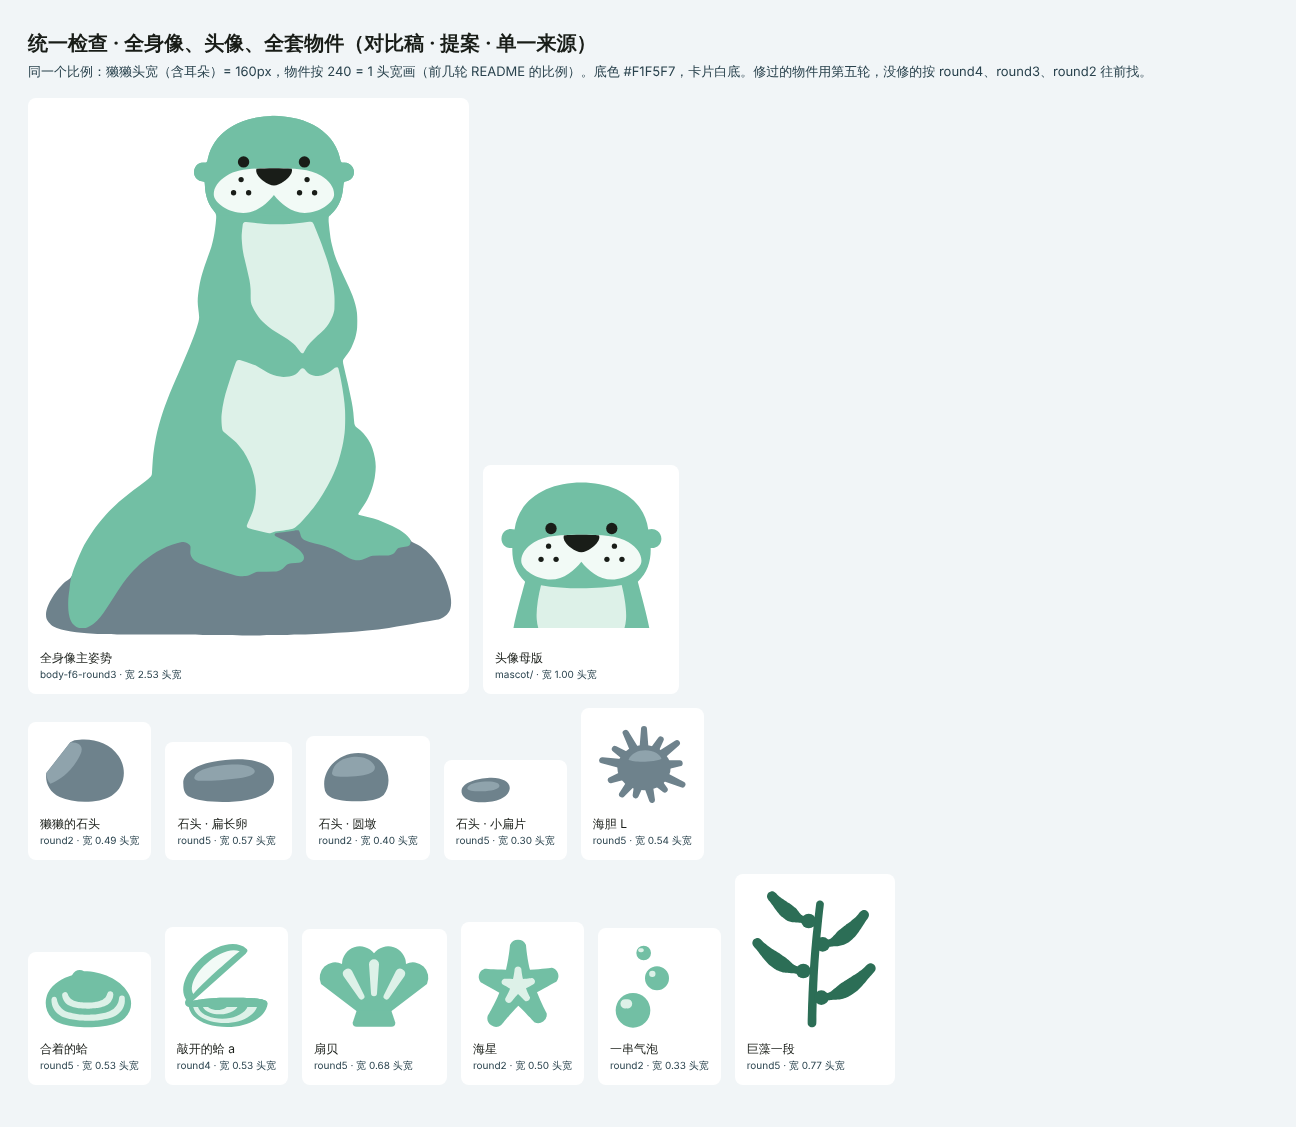
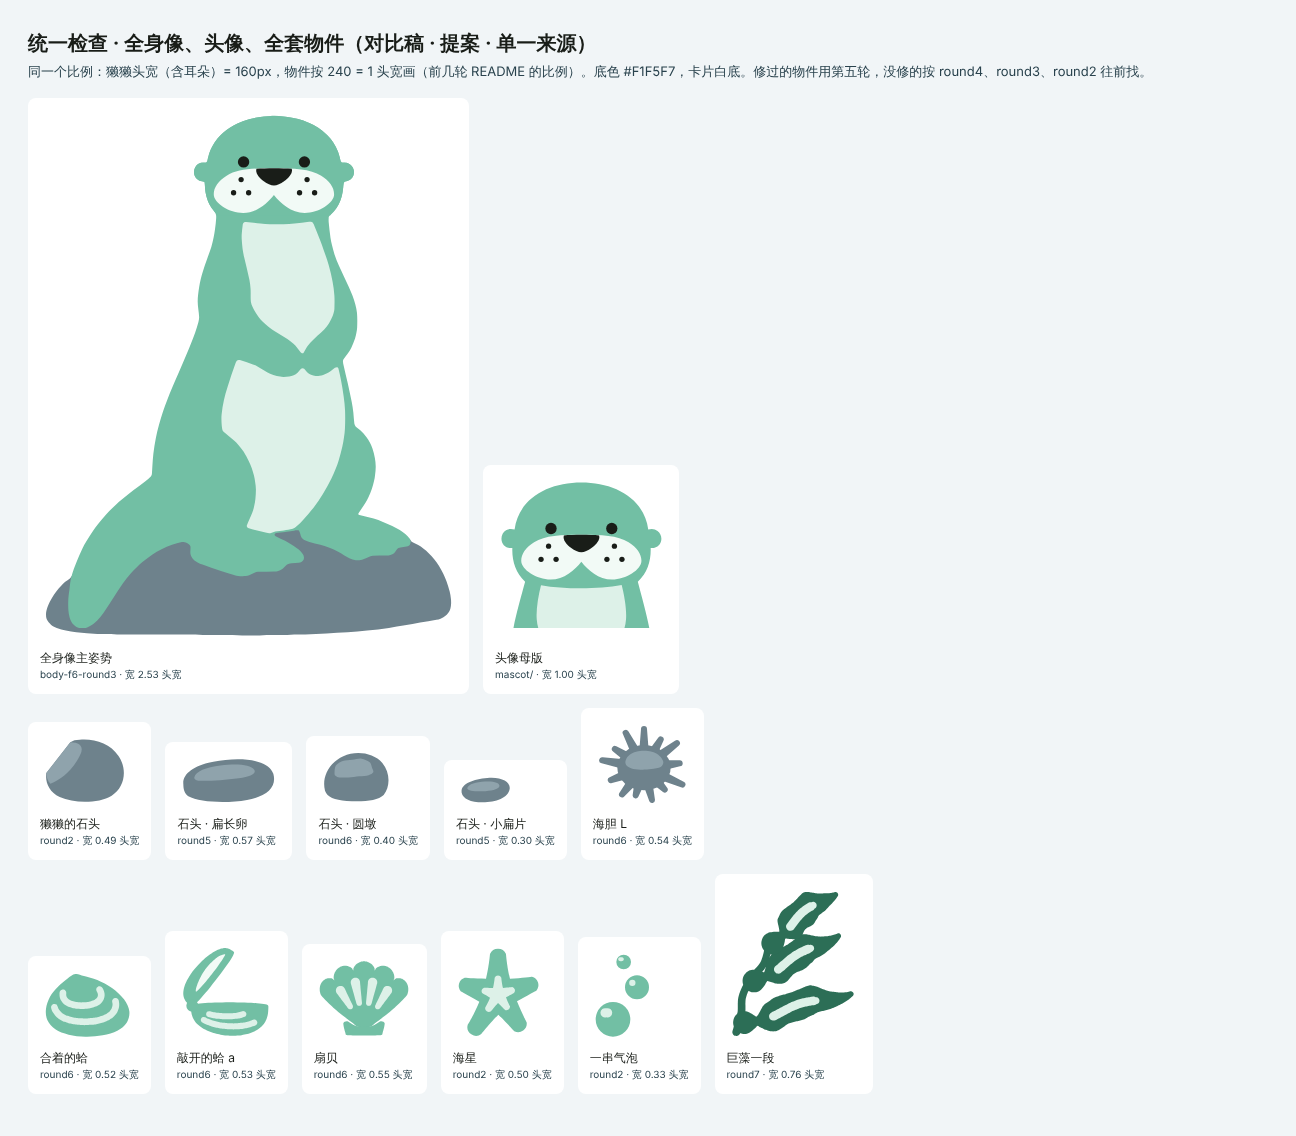
统一检查第二遍过了：坐石全身像和十一样物件搬进 mascot/，BRAND.md 第 113 条
Claude-Session: https://claude.ai/code/session_01Ct2ZK9gFhJo2CP1NsM765z

diff --git a/design/brand-2026-10-13/image-review-2026-11-14/unified-check/README.md b/design/brand-2026-10-13/image-review-2026-11-14/unified-check/README.md
@@ -187,3 +187,16 @@
 3. **圆墩石的顶面离外沿 1.7px**：要不要照小扁片、扁长卵的改法一起往里收 0.3px？这一轮按要求没碰它。
 4. **全身像在 48px 下的五官、肚皮和脸斑离外沿近**：是不是明确写一条「全身像不用在 48px 以下，小尺寸用头像」，这样第 2、3 条只对头像和物件查？
 5. **头像母版的胡须点在 48px 下约 1.6px**：48px 用 `mascot/small/` 的简化版，还是把胡须点放大？
+
+## 第二遍（2026-11-14，Owner 定完每样画法之后）
+
+用的稿：全身像第三轮；物件按第七轮、第六轮、第五轮、第四轮、第三轮、第二轮的顺序往前找，也就是每样都是 Owner 定的那一版（BRAND.md 第 109 到 112 条）。`sheet.png`、`mono.png`、`small-48.png`、`measure.json` 已重出，上面第一遍的数是旧稿的。图上副标题那句「修过的物件用第五轮」是旧字，没改脚本里的文案。
+
+- 颜色：每样认不出的像素都是 0，石板墨没出现，墨只在獭獭的五官上。
+- 次色离外沿（48 像素下）：扁长卵 2.5、圆墩 2.3、小扁片 2.4、合着的蛤 2.4、敲开的蛤 2.3 和 3.2、扇贝 3.9、海胆 2.8、巨藻 2.4、海星 4.0，都过 2。
+- 次色占比：15% 到 27%（敲开的蛤两块次色合计 24%）。
+- 48 像素下窄于 2 像素的面：物件都在 5% 以下。
+- 脸：全身像的墨和雾白与头像母版逐像素重合。
+- 没过、但都是已定的例外：气泡小点离外沿 0.5（第 110 条留着）；獭獭的石头平切面贴外沿（规定画法）；全身像坐的石头没有石面（第 109 条）；全身像缩到 48 像素五官过细（第 110 条：不用在 48 像素以下）；头像胡须点在 48 像素下约 1.6 像素（小尺寸用 `mascot/small/` 的简化版）。
+
+结论：过。已搬进 `mascot/objects/` 和 `mascot/otter-sit.svg`（第 113 条）。

diff --git a/design/brand-2026-10-13/image-review-2026-11-14/house-rules.md b/design/brand-2026-10-13/image-review-2026-11-14/house-rules.md
@@ -45,7 +45,7 @@
 1. 脸和标志（已做）：头像、标志、浏览器图标、App 图标、默认头像。
 2. 全身像主姿势（在画）：坐石四分之三侧，成年比例。Owner 2026-11-14：身材照 F6 草图描，合爪保留（第 109 条）；对比稿在 `body-f6-round3/`，还要手修。
 3. 生态物件（在画）：石头、蛤、扇贝、海胆、巨藻、海星、气泡已过 agent 复核；敲开的蛤用第四轮候选 a（第 109 条），壳要加厚；合着的蛤、扇贝再改一轮，巨藻加浅雾薄荷次色（第 110 条，第六轮）。
-4. **统一检查（还没做）**：把 1 到 3 的定稿放在同一张图上，同一个比例、同一个底色，查颜色是不是只有表里的、次色画法是不是一个密度、石头是不是一种画法、獭獭的脸是不是同一张；另出单色剪影和 48 像素两张。这一步过了，才搬进 `mascot/`、`illustration/`。
+4. **统一检查（2026-11-14 第二遍过了，已搬入，BRAND.md 第 113 条）**：把 1 到 3 的定稿放在同一张图上，同一个比例、同一个底色，查颜色是不是只有表里的、次色画法是不是一个密度、石头是不是一种画法、獭獭的脸是不是同一张；另出单色剪影和 48 像素两张。这一步过了，才搬进 `mascot/`、`illustration/`。
 5. 按新的全身像重画旧图：仰躺的全身浮姿、五个状态图、登录页探头、直立和巨藻姿势。重画前先定哪些留、哪些换。
 6. 场景：雾海和巨藻林，獭獭和物件按相互大小放进去。
 7. 放进真实页面：空态、加载、完成，各挑一处试；拍真实截图。

diff --git a/design/brand-2026-10-13/mascot/objects/README.md b/design/brand-2026-10-13/mascot/objects/README.md
@@ -1,0 +1,23 @@
+# 生态物件（2026-11-14 搬入）
+
+状态：画法 Owner 已定（BRAND.md §7 第 106、109 到 112 条），2026-11-14 过了统一检查后从 `image-review-2026-11-14/` 搬到这里（第 113 条）。还没放进真实页面，也没定每样用在哪；含义只当装饰（第 106 条）。
+
+画框约定：每个 SVG 的画框里 240 = 獭獭头宽（含耳朵），物件按相互大小画在里面，所以放在一起时不用再各自缩放。
+
+| 文件 | 是什么 | 来自 |
+| --- | --- | --- |
+| `stone-otter.svg` | 獭獭的石头，带一刀平切面 | 第二轮 |
+| `stone-long.svg` | 石头 · 扁长卵 | 第五轮 |
+| `stone-round.svg` | 石头 · 圆墩 | 第六轮 |
+| `stone-flat.svg` | 石头 · 小扁片 | 第五轮 |
+| `urchin.svg` | 海胆 | 第六轮 |
+| `clam.svg` | 合着的蛤，两道纹 | 第六轮 c2 |
+| `clam-open.svg` | 敲开的蛤，侧面掀约 52°，不垫石头 | 第六轮 a6-2 |
+| `scallop.svg` | 扇贝，五瓣四缝 | 第六轮 s1 |
+| `starfish.svg` | 海星 | 第二轮 |
+| `bubbles.svg` | 一串气泡 | 第二轮 |
+| `kelp-blade.svg` | 巨藻一段，叶朝一侧飘 | 第七轮 B |
+
+全身像主姿势（坐石）在 `../otter-sit.svg`。
+
+规矩和例外见 `../../image-review-2026-11-14/house-rules.md`；量数见 `../../image-review-2026-11-14/unified-check/`。已知例外：气泡的浅色小点像高光（Owner 定留着）；獭獭的石头平切面贴外沿（规定画法）；全身像坐的石头不加石面（Owner 定）；全身像不用在 48 像素以下。
